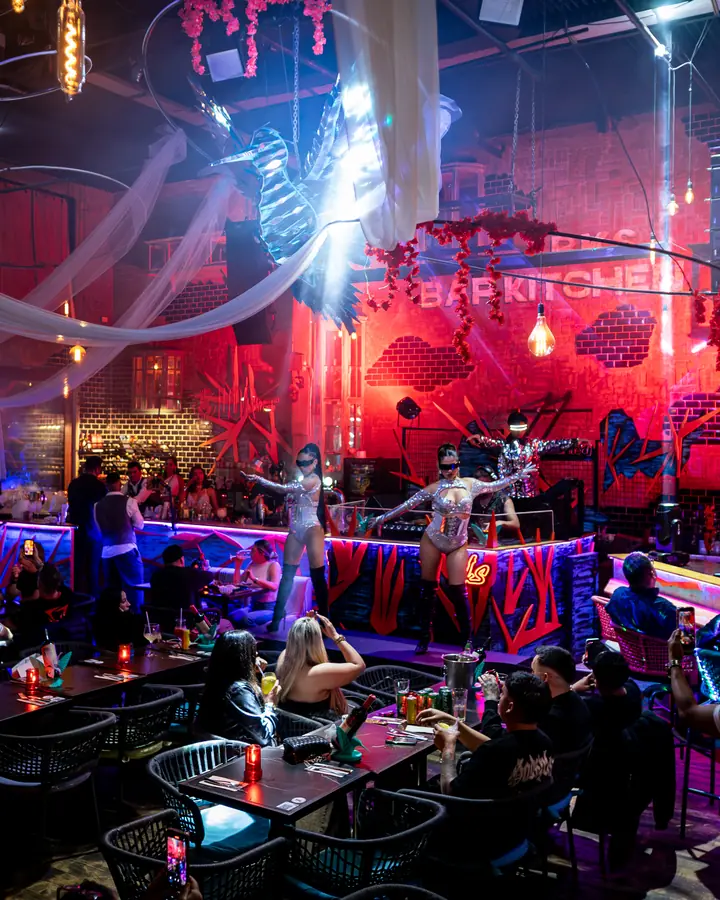
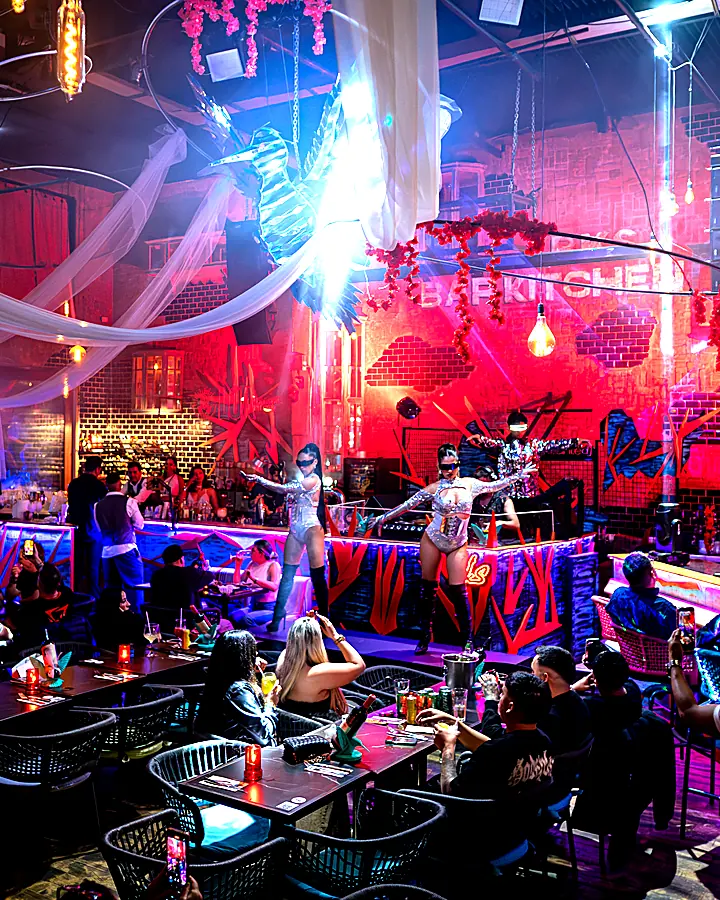
menu v0.10.53: la foto di chiusura resta viva · niente «Ver ›» senza famiglia · la foto di Aurora schiarita (ramo, da bancare)
Alberto 18-nov (screenshot sul vivo): «la foto che è bella rimane troppo scura, possiamo renderla più nitida?»; e il «Ver ›» che non portava da nessuna parte.
- .pal-fin::before: il velo scuro solo sotto il testo (trasparente fino al 30%, .55 al 65%, .9 in fondo) invece di .55→.93 su tutta la foto. Vale per ogni pagina di chiusura.
- Fine video di un evento senza famiglia: resta solo «▶ Ver de nuevo» (il DJ ha già le sue pillole dalla v0.10.48).
- vetrina/BKS/AURORA_1.webp rifatta dalla DSC05172: luminosità ×1,35, contrasto ×1,08, colore ×1,1, nitidezza (luma media 67 → 86), 169 KB.
- Fumi: pillole DJ 8/0 · etichetta 2x1 6/0. Prova nel browser: a fine video un solo bottone, «▶ Ver de nuevo».

diff --git a/menu.html b/menu.html
@@ -356,7 +356,7 @@ button{font-family:inherit}
 .pal-cta-row{display:flex;gap:8px;align-items:center;flex-wrap:wrap;margin-top:4px}
 .pal-x{background:transparent;border:1px solid rgba(255,255,255,.35);color:#fff;border-radius:99px;padding:7px 12px;font-family:inherit;font-size:12.5px;font-weight:700;margin-top:9px;cursor:pointer}
 .pal-fin{cursor:default}
-.pal-fin::before{background:linear-gradient(180deg,rgba(10,8,6,.55) 0%,rgba(10,8,6,.93) 100%)}
+.pal-fin::before{background:linear-gradient(180deg,rgba(10,8,6,0) 30%,rgba(10,8,6,.55) 65%,rgba(10,8,6,.9) 100%)}   /* v0.10.53: la foto resta viva, il velo solo sotto il testo */
 .pal-ss-w{background:#000}
 .pal-ss{position:absolute;inset:0;z-index:0;background-size:cover;background-position:center;opacity:0;animation:ssin 2.5s ease-out forwards}
 @keyframes ssin{0%{opacity:0;transform:scale(1.08)}20%{opacity:1}100%{opacity:1;transform:scale(1)}}
@@ -602,7 +602,7 @@ button{font-family:inherit}
   <div class="z3" id="z3"><div class="msg">Cargando la carta…</div></div>
   <div class="z2" id="z2" hidden></div>
 </div>
-<div class="ver" id="ver">menu v0.10.52</div>
+<div class="ver" id="ver">menu v0.10.53</div>
 <script>
 'use strict';
 /* ═══ la sorgente: SOLO il bordo. Il token è quello pubblico di lettura che il menù vivo usa già (sola lettura). ═══ */
@@ -1257,7 +1257,7 @@ function slideHTML() {
     '<div class="pal-t">' + esc(s.tit || '') + '</div><div class="pal-s">' + esc(s.sub || '') + '</div>' + palDjRow().replace('<div class="pal-cta-row">', '<div class="pal-cta-row"><button class="pal-x" data-a="palcoRe">▶ Ver de nuevo</button>') + '</div>' + puntiPalco() + '</div>';
   if (s.vid && S.finVid) return '<div class="pal pal-fin" style="background-image:url(\'' + esc(s.poster) + '\')"><div class="pal-tx"><div class="pal-tag">' + esc(s.tag || '') + '</div>' +
     '<div class="pal-t">' + esc(s.fin_tit || s.tit || '') + '</div><div class="pal-s">' + esc(s.fin_sub || '') + '</div><div class="pal-cta-row">' +
-    '<button class="pal-cta" data-a="palcoFam" data-k="' + esc(s.fin_fam) + '">' + esc(s.fin_cta || 'Ver') + ' ›</button><button class="pal-x" data-a="palcoRe">▶ Ver de nuevo</button></div></div>' + puntiPalco() + '</div>';
+    (s.fin_fam ? '<button class="pal-cta" data-a="palcoFam" data-k="' + esc(s.fin_fam) + '">' + esc(s.fin_cta || 'Ver') + ' ›</button>' : '') + '<button class="pal-x" data-a="palcoRe">▶ Ver de nuevo</button></div></div>' + puntiPalco() + '</div>';   // v0.10.53: senza famiglia niente «Ver ›»
   if (!s.vid && s.img !== undefined) return '<div class="pal" style="background-color:#2a1d14' + (s.img ? ';background-image:url(\'' + esc(s.img) + '\')' : '') + '"' + (s.t === 'plato' || s.t === 'show' ? ' data-a="palcoTap"' : '') + '>' +
     '<div class="pal-tx"><div class="pal-tag">' + esc(s.tag || '') + '</div><div class="pal-t">' + esc(s.tit || '') + '</div><div class="pal-s">' + esc(s.sub || '') + '</div>' + (s.dj ? palDjRow() : '') + '</div>' + puntiPalco() + '</div>';   // SALA DEMO: evento con foto
   if (s.ss) {
